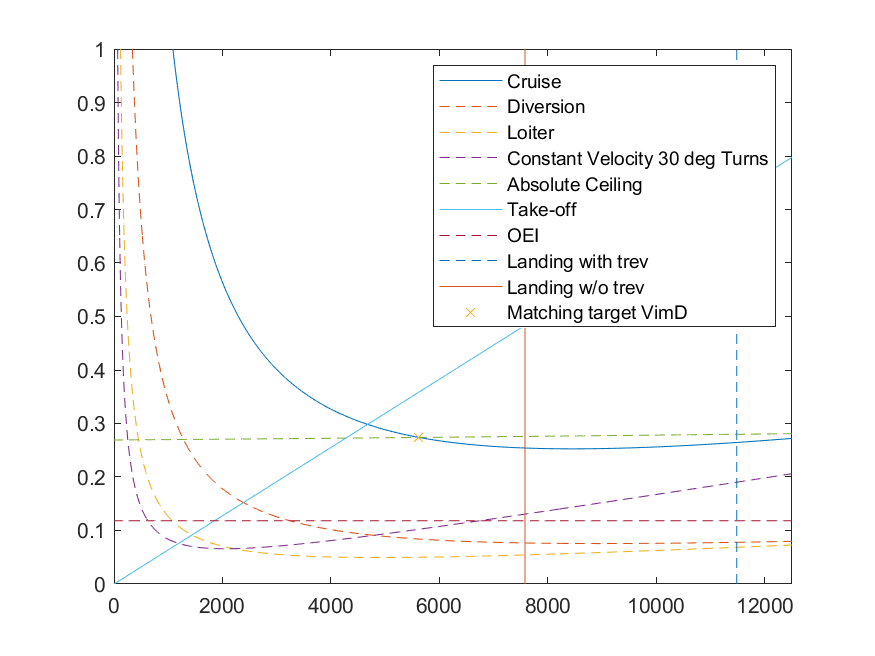
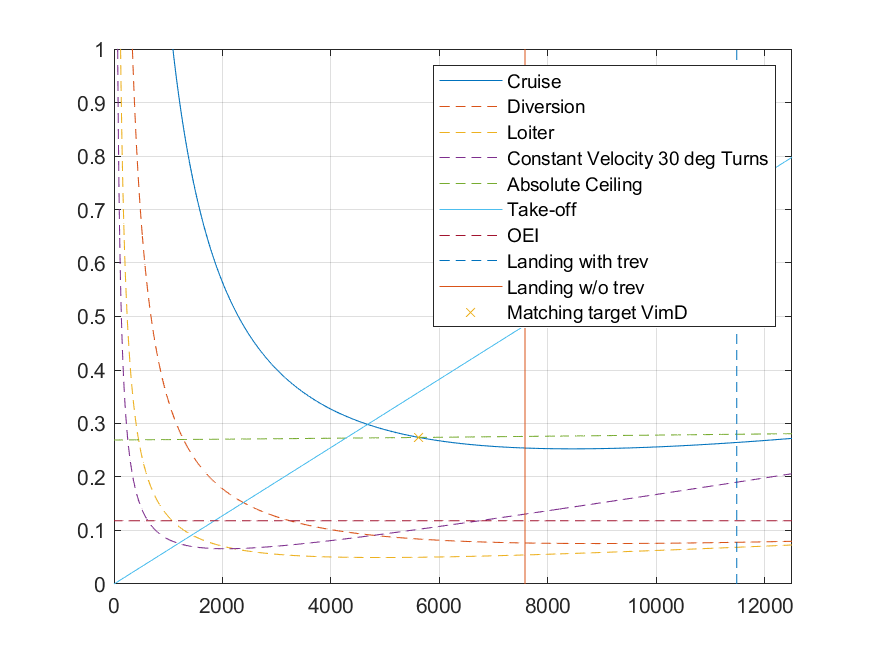
Minor changes

diff --git a/Initial Sizing & Constraints/Main.m b/Initial Sizing & Constraints/Main.m
@@ -55,7 +55,7 @@ beta_Loiter = 0.8; e_Loiter = 0.75; C_D0_Loiter = 0.02;             % Loiter
 alpha_AbsC = 1; beta_AbsC = 0.2; C_D0_AbsC = 0.02; e_AbsC = 0.85;   % Absolute ceiling
 TODA = 2200; CL_TakeOff = 1.7;                                      % Takeoff
 NumberOfEngines = 2; ClimbGradient = 0.012;                         % One engine inoperative
-C_LMaxLanding = 2.2; 
+C_LMaxLanding = 2.2;                                                % Landing
 
 % Functions
 % Walk team through functions!
@@ -87,6 +87,7 @@ plot(Const_WS_LandingNoTrev, Const_TW_LandingNoTrev)
 plot(TargetMatchX, TargetMatchY, 'x')
 ylim([0 1])
 xlim([0 12500])
+grid on
 legend('Cruise', 'Diversion', 'Loiter', 'Constant Velocity 30 deg Turns', 'Absolute Ceiling', 'Take-off', 'OEI', 'Landing with trev', 'Landing w/o trev', 'Matching target VimD')
 saveas(figure(1), 'Constraints Diagram', 'png') 
 
